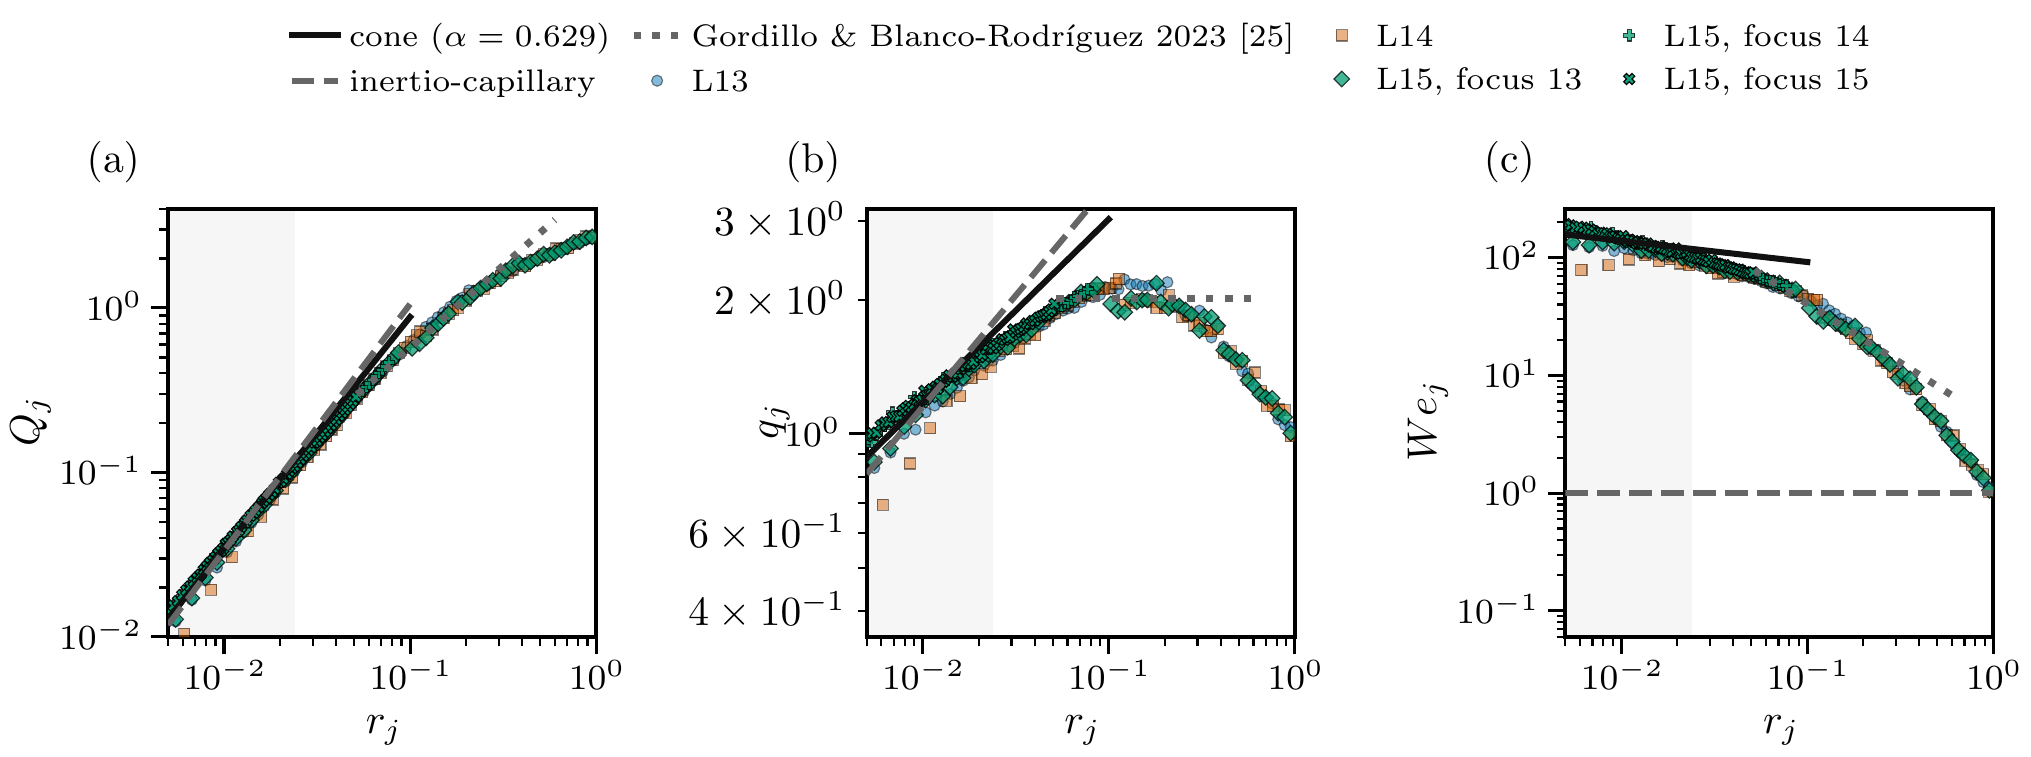
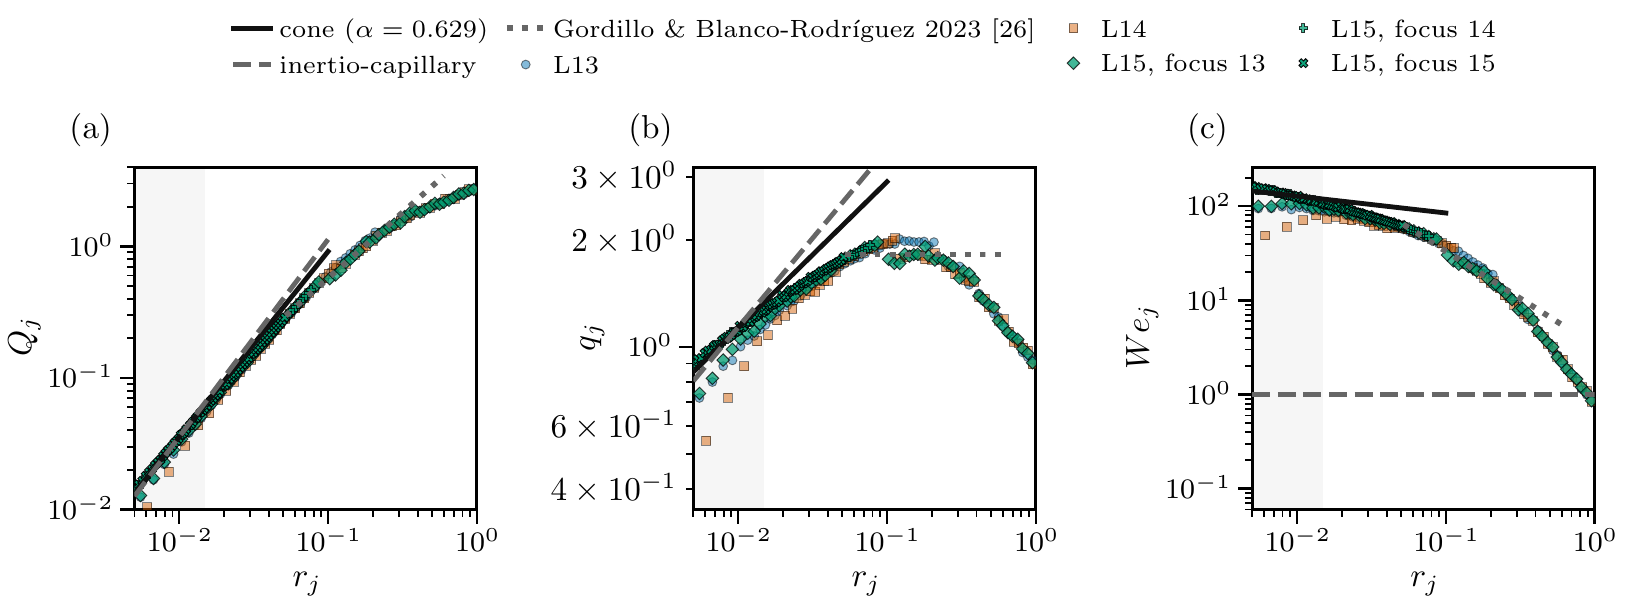
Update SingularJets Fig. 2 assets
Use the approved manuscript Fig. 2 mapping with Q_j-derived q_j, the 0.005 <= r_j <= 0.015 asymptotic window, and regenerated PDF/PNG assets. Update the reproduction notes to match the paper notation.

diff --git a/papers/SingularJets2026/figure-scripts/make_fig2_flux_scalings.py b/papers/SingularJets2026/figure-scripts/make_fig2_flux_scalings.py
@@ -2,9 +2,9 @@
 """Build the Fig. 2 scaffold from the Oh=0.03 grid-convergence logs.
 
 Paper notation differs from the solver-column names:
-  q_j  = q_l
-  Q_j  = 2*pi*q_jet = pi*r_j*q_j for the plug-like jet profile
-  We_j = q_l**2/r_j
+  Q_j  = 2*pi*q_jet
+  q_j  = Q_j/(pi*r_j) = 2*q_jet/r_j
+  We_j = q_j**2/r_j
 
 The cone and inertio-capillary prefactors are fit in the near-inception
 inertial window. The PRF 2023 prefactor is fit in the finite-radius plateau
@@ -35,7 +35,8 @@ DEFAULT_DATA_DIR = ROOT / "data-Oh-0.03"
 APS_DOUBLE_COL = 6.75
 ALPHA = 0.629
 MAX_RJ = 1.0
-CONE_FIT_WINDOW = (0.005, 0.023952)
+CONE_FIT_WINDOW = (0.005, 0.015)
+CONE_FIT_RMAX_LIMIT = 0.030
 PRF_FIT_WINDOW = (0.11, 0.19)
 CONE_DRAW_WINDOW = (0.005, 0.10)
 PRF_DRAW_WINDOW = (0.052, 0.60)
@@ -150,8 +151,10 @@ def reconnection_time(data: dict[str, np.ndarray], pin_r: float = 0.005) -> floa
 
 def processed_series(data: dict[str, np.ndarray]) -> dict[str, np.ndarray]:
     r_j = data["r_base"]
-    q_j = data["q_l"]
     Q_j = 2.0 * np.pi * data["q_jet"]
+    # Derive the line flux from the grid-converged volume flux using
+    # the paper identity Q_j = pi*r_j*q_j.
+    q_j = Q_j / (np.pi * r_j)
     We_j = q_j**2 / r_j
     incept_t = reconnection_time(data)
 
@@ -293,6 +296,56 @@ def reference_run_normalisation(
     raise ValueError(f"No L{level}, focus {focus} run found for {quantity}")
 
 
+def cone_window_score(
+    series_by_run: list[tuple[RunSpec, dict[str, np.ndarray]]],
+    panels: tuple[tuple[str, str, float, float, float], ...],
+    window: tuple[float, float],
+) -> float:
+    """RMS log-residual for fixed cone slopes over the deep focused runs."""
+    residuals: list[float] = []
+    for quantity, _, cone_slope, _, _ in panels:
+        quantity_residuals: list[float] = []
+        for run, series in series_by_run:
+            if run.level != 15 or run.focus not in (14, 15):
+                continue
+            fit = (series["r_j"] >= window[0]) & (series["r_j"] <= window[1])
+            if np.count_nonzero(fit) < 20:
+                continue
+            log_r = np.log(series["r_j"][fit])
+            log_y = np.log(series[quantity][fit])
+            prefactor = np.mean(log_y - cone_slope * log_r)
+            quantity_residuals.extend(log_y - (prefactor + cone_slope * log_r))
+        if not quantity_residuals:
+            return np.inf
+        residuals.append(float(np.sqrt(np.mean(np.asarray(quantity_residuals) ** 2))))
+    return float(np.mean(residuals))
+
+
+def optimise_cone_fit_window(
+    series_by_run: list[tuple[RunSpec, dict[str, np.ndarray]]],
+    panels: tuple[tuple[str, str, float, float, float], ...],
+    base_window: tuple[float, float] = CONE_FIT_WINDOW,
+    rmax_limit: float = CONE_FIT_RMAX_LIMIT,
+) -> tuple[float, float]:
+    r_min, r_max_floor = base_window
+    candidates = np.unique(
+        np.concatenate(
+            [
+                np.linspace(r_max_floor, rmax_limit, 401),
+                np.asarray([r_max_floor], dtype=float),
+            ]
+        )
+    )
+    best_rmax = r_max_floor
+    best_score = np.inf
+    for r_max in candidates:
+        score = cone_window_score(series_by_run, panels, (r_min, float(r_max)))
+        if score < best_score:
+            best_rmax = float(r_max)
+            best_score = score
+    return (r_min, best_rmax)
+
+
 def marker_alpha(run: RunSpec) -> float:
     if run.level == 15 and run.focus == 15:
         return 0.94
@@ -359,7 +412,7 @@ def draw_theory(
         ls=":",
         lw=LINE["theory_linewidth"] + 0.25,
         zorder=8,
-        label=r"Gordillo \& Blanco-Rodr\'iguez 2023 [25]" if show_labels else None,
+        label=r"Gordillo \& Blanco-Rodr\'iguez 2023 [26]" if show_labels else None,
     )
 
 
@@ -368,6 +421,7 @@ def build_figure(
     output: Path,
     use_tex: bool = True,
     cone_fit_window: tuple[float, float] = CONE_FIT_WINDOW,
+    optimise_cone_window: bool = False,
 ) -> None:
     configure_matplotlib(use_tex=use_tex)
 
@@ -383,6 +437,12 @@ def build_figure(
         ("q_j", r"$q_j$", (2.0 * ALPHA - 1.0) / ALPHA, 0.5, 0.0),
         ("We_j", r"$We_j$", (3.0 * ALPHA - 2.0) / ALPHA, 0.0, -1.0),
     )
+    if optimise_cone_window:
+        cone_fit_window = optimise_cone_fit_window(series_by_run, panels, cone_fit_window)
+        print(
+            "Optimised cone fit window: "
+            f"{cone_fit_window[0]:.5g} <= r_j <= {cone_fit_window[1]:.5g}"
+        )
 
     for ax, (quantity, ylabel, cone_slope, ic_slope, prf_slope), panel_label in zip(
         axes, panels, (r"(a)", r"(b)", r"(c)")
@@ -424,7 +484,7 @@ def build_figure(
     axes[0].set_ylim(0.01, 4.0)
     axes[1].set_ylim(0.35, 3.2)
     axes[2].set_ylim(0.06, 260.0)
-    axes[1].yaxis.set_label_coords(-0.18, 0.5)
+    axes[1].yaxis.set_label_coords(-0.26, 0.5)
 
     handles, labels = axes[0].get_legend_handles_labels()
     fig.legend(
@@ -459,6 +519,11 @@ def parse_args() -> argparse.Namespace:
         default=CONE_FIT_WINDOW,
         help="Near-inception fit window used for the cone and inertio-capillary prefactors.",
     )
+    parser.add_argument(
+        "--optimise-cone-window",
+        action="store_true",
+        help="Optimise the upper bound of --cone-fit-window before fitting prefactors.",
+    )
     return parser.parse_args()
 
 
@@ -469,6 +534,7 @@ def main() -> None:
         args.output,
         use_tex=not args.no_tex,
         cone_fit_window=tuple(args.cone_fit_window),
+        optimise_cone_window=args.optimise_cone_window,
     )
     print(f"Wrote {args.output}")
 

diff --git a/papers/SingularJets2026/README.md b/papers/SingularJets2026/README.md
@@ -64,8 +64,10 @@ i  dt  t  ke  maxlevel  r_b  z_b  r_base  z_base  q_jet  q_l
 
 The plots use, at the jet-base plane:
 - `r_base` (col 8) = **r_j**, jet-base radius (robust getBase probe).
-- `q_jet`  (col 10) = **q_j = ∫ v_z r dr**.
-- `q_l`    (col 11) = **q_ℓ = ∫ v_z dr**.
+- `q_jet`  (col 10) = **∫ v_z r dr**; manuscript Fig. 2 uses
+  **Q_j = 2π q_jet** and **q_j = Q_j/(π r_j)**.
+- `q_l`    (col 11) = **∫ v_z dr**; retained as a diagnostic, but not used
+  for the approved manuscript Fig. 2 line-flux panel.
 
 `Oh` and `Bond` are in each `*_case.params` (Bond only picks the initial shape;
 the solver has no gravity term).
@@ -77,6 +79,6 @@ the solver has no gravity term).
 - Theory lines: cone (this work, α=1/(2−ν(β)), β fit from the inception facet),
   inertio-capillary (α=2/3), PRF 2023 (α=1/2). Fit the cone and
   inertio-capillary prefactors over the r_j→0 window
-  `--cone-fit-window 0.005 0.023952`.
+  `--cone-fit-window 0.005 0.015`.
 - If matplotlib complains about LaTeX, set `text.usetex = False` at the top of
   `plotJetMetricsTheory.py`.
